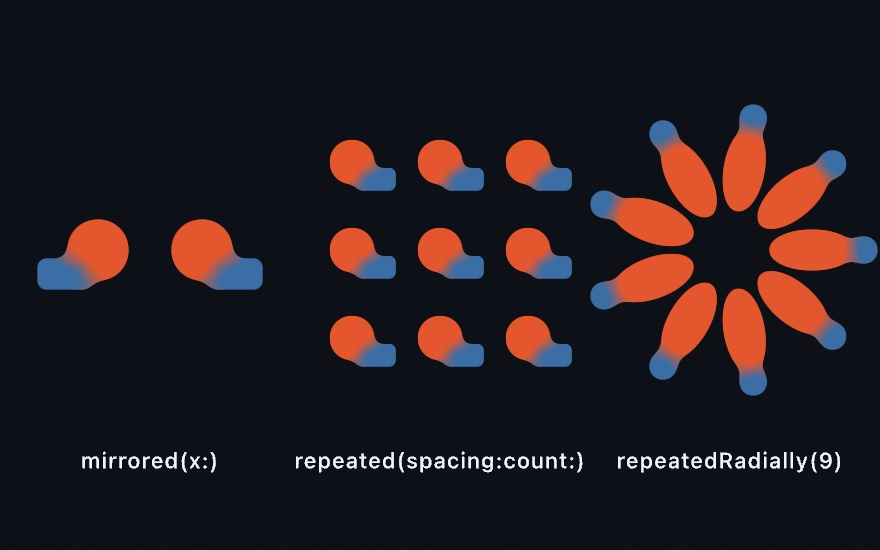
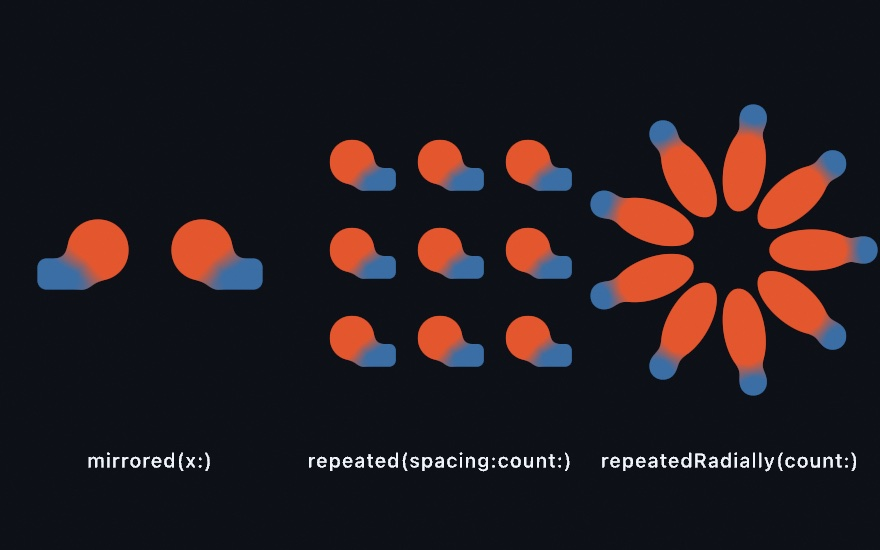
The domain contact sheet re-rendered with its third label reading repeatedRadially(count:), in both themes. The longer label came within a few pixels of the tiling's, and the rosette already reaches the canvas edge, so the three labels drop from 22 to 20 points, which opens a clear gap and leaves th
Claude-Session: https://claude.ai/code/session_01WqLtBAH3GLezrn1E1FY2W7

Changed region(s): [[0.3375, 0.8036, 0.9818, 0.8655], [0.092, 0.8036, 0.2455, 0.8655]]

diff --git a/Guide/Figures/30-SculptingWithFields/DomainFold.swift b/Guide/Figures/30-SculptingWithFields/DomainFold.swift
@@ -43,7 +43,7 @@ final class DomainFold: Sketch {
                 drawSDF(tile.1)
             }
             fill(ink)
-            textSize(22)
+            textSize(20)
             textAlign(.center, .middle)
             drawText(tile.0, cx, 460)
         }
